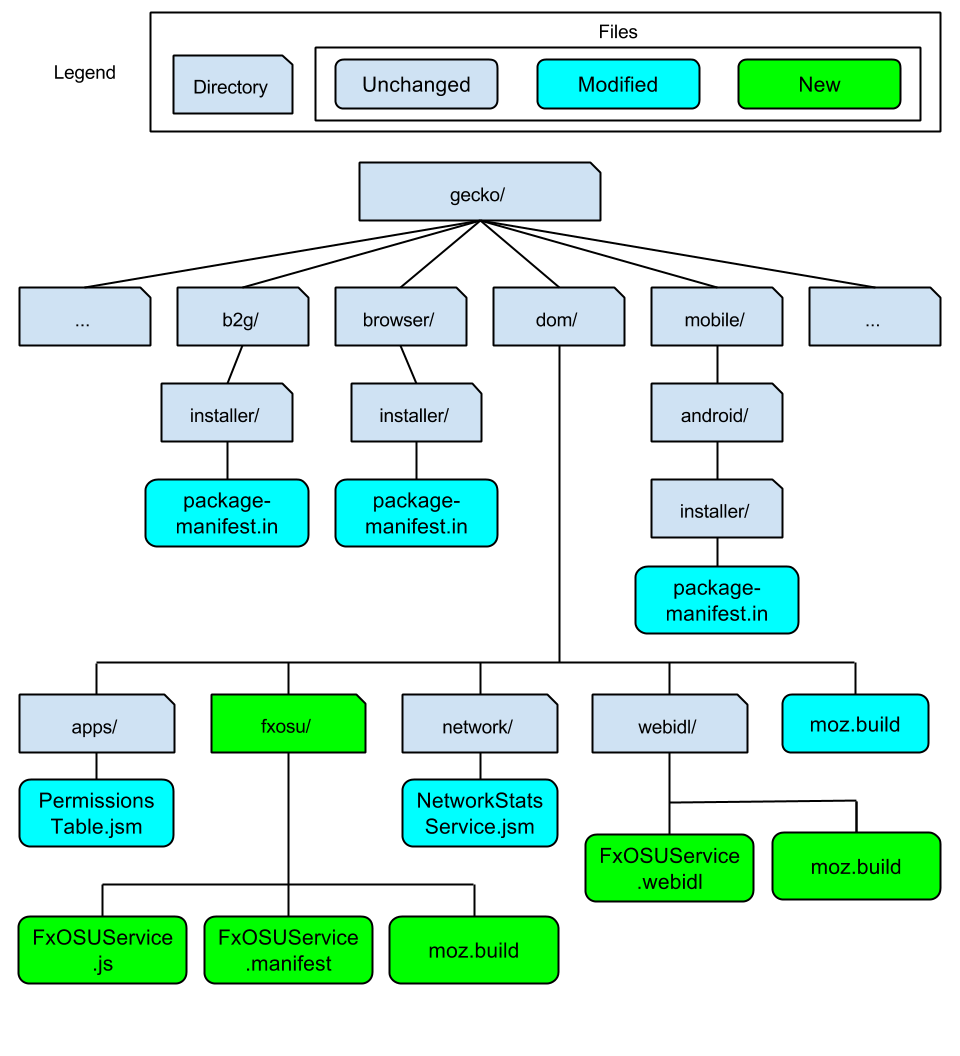
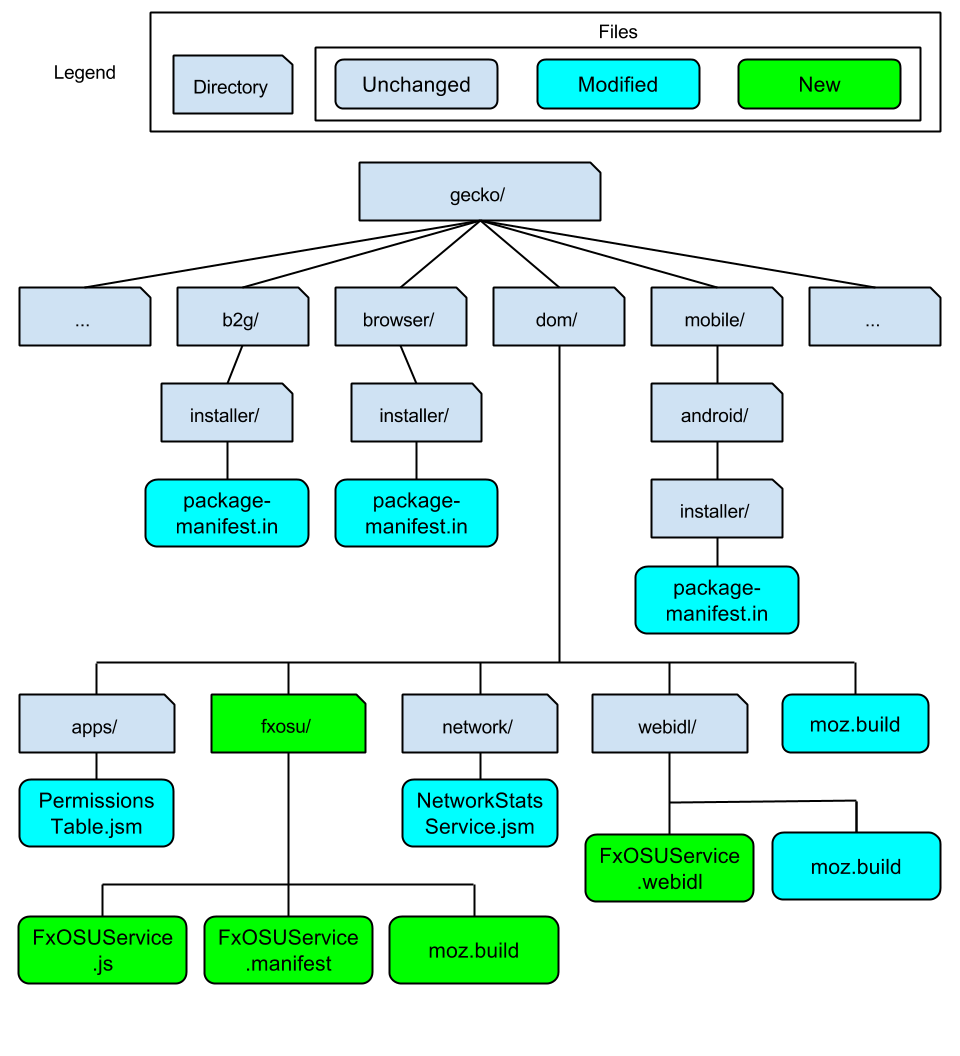
Fleshed out much of the 'Project Documentation'->'Source Code' section, and modified various other things

Changed region(s): [[0.7812, 0.7812, 1.0, 0.875]]

diff --git a/group2_final.tex b/group2_final.tex
@@ -7,6 +7,28 @@
 \usepackage[T1]{fontenc}
 \usepackage{graphicx}
 \graphicspath{ {images/} }
+\usepackage{listings}
+\lstdefinelanguage{diff}{
+  morecomment=[f][\color{blue}]{@@},     % group identifier
+  morecomment=[f][\color{red}]-,         % deleted lines 
+  morecomment=[f][\color{green}]+,       % added lines
+  morecomment=[f][\color{magenta}]{---}, % Diff header lines (must appear after +,-)
+  morecomment=[f][\color{magenta}]{+++},
+}
+\lstdefinelanguage{javascript}{
+  keywords={typeof, new, true, false, catch, function, return, null, catch, switch, var, if, in, while, do, else, case, break},
+  keywordstyle=\color{blue}\bfseries,
+  ndkeywords={class, export, boolean, throw, implements, import, this},
+  ndkeywordstyle=\color{darkgray}\bfseries,
+  identifierstyle=\color{black},
+  sensitive=false,
+  comment=[l]{//},
+  morecomment=[s]{/*}{*/},
+  commentstyle=\color{purple}\ttfamily,
+  stringstyle=\color{red}\ttfamily,
+  morestring=[b]',
+  morestring=[b]"
+}
 \pagestyle{fancy}
 \fancyhf{}
 \fancyhead[LE,RO]{NETWORK RELIABILITY API FOR FIREFOX OS}
@@ -212,6 +234,91 @@ There are almost 4 million lines of code in Firefox, and our project barely scra
 \end{figure}
 \pagebreak
 
+\subsection{Source Code}
+Here is a description of each of the files used in our project.
+
+\subsubsection{b2g/installer/package-manifest.in}
+This file required modification to include references to our new XPCOM component. This is necessary when compiling Firefox OS; B2G (Boot 2 Gecko) contains the core which we continually refer to as Gecko.
+
+\subsubsection{browser/installer/package-manifest.in}
+This file required modification to include references to our new XPCOM component. This is necessary when compiling Firefox Desktop.
+
+\subsubsection{dom/apps/PermissionsTable.jsm}
+This file required modification to list the specific permissions given to the XPCOM component.
+
+\subsubsection{dom/fxosu/FxOSUService.js}
+This file holds the bulk of the work that we've done in this project.
+
+\subsubsection{dom/fxosu/FxOSUService.manifest}
+This file sets the uuid for our XPCOM component, so that Gecko can handle a unique reference to the location of the component. It also sets up a name for the XPCOM component, and registers the component to be run at app startup.
+
+\subsubsection{dom/fxosu/moz.build}
+This file lists references to the files need to compile our XPCOM component, and is used by subsequent moz.build files up the directory hierarchy, when Gecko is being built.
+
+\subsubsection{dom/NetworkStatsService.jsm}
+This file required modification to handle registering network request observers, as well as handling the IPC functionality needed to shuttle messages from the parent process to a child process, and back again if necessary.
+\\\\
+We setup observers for 'http-on-modify-request' and 'http-on-examine-response' events. An 'http-on-modify-request' event is called whenever an http request is made. Among other things, this event allows you to inspect request headers and to even add or modify new and existing headers before the request is sent. An 'http-on-examine-response' event is called whenever a response has been received from the web server. Similarly to an 'http-on-modify-request' event, this event allows you to inspect response headers, and to modify existing response headers as well.
+\\\\
+Once the event observers are setup and registered, we define new cases for the NetworkStatsService.jsm process' observe function to be capable of reacting to our new events. Upon receipt of an 'http-on-modify-request' event, the observe function will grab the request URI and record the current time, storing this data in an object. This object is then broadcast asynchronously, with the name "NetworkStatsService:Request", where our FxOSUService.js child process is listening to grab the message. Upon receipt of an 'http-on-examine-response' event, the observe function will grab the content length in bytes, the time of the response, the content type, the response URI, will check if the response was a cached response by calling the isNoCacheResponse() function on the response object, and finally will check if the request succeeded by checking the requestSucceeded attribute of the response object. Just like with the 'http-on-modify-request' event, all of this data is then stored in an object, and the object is then broadcast asynchronously, with the name "NetworkStatsService:Response", where our FxOSUService.js child process is listening to grab the message.
+\\\\
+Finally, when the 'xpcom-shutdown' event is received, the observe function will remove the observers that we setup for 'http-on-modify-request' and 'http-on-examine-response' events.
+
+\subsubsection{dom/webidl/FxOSUService.webidl}
+This file handles the defining of our exposed API. In it we define the interface that will be made accessible via the navigator object available in a js application running in a web context. We define 3 objects to help with the interface we have chosen to implement; SuccessRateObject, MemoryObject, and LatencyObject. The SuccessRateObject object holds 3 floats; rate, successes, and attempted, which records the success rate from 0 to 1 of network requests, the number of successful network requests, and the total number of attempted network requests all within an arbitrary time period, respectively. The MemoryObject object holds 2 floats; explicit and resident. Explicit shows the total size of explicit memory allocations, both at the operating system level (mmap, VirtualAlloc) and at the heap level (malloc(), calloc(), operator new). And Resident shows the resident size (RSS) of physical memory used. The LatencyObject object holds 23 floats, which we'll list and describe in a bullet point list:
+
+\begin{itemize}
+  \item \textbf{navigation\_type}: THING
+  \item \textbf{navigation\_redirectCount}: THING
+  \item \textbf{prep}: THING
+  \item \textbf{redirect}: THING
+  \item \textbf{unload}: THING
+  \item \textbf{r\_to\_f}: THING
+  \item \textbf{fetch}: THING
+  \item \textbf{dnslookup}: THING
+  \item \textbf{d\_to\_c}: THING
+  \item \textbf{connection}: THING
+  \item \textbf{c\_to\_req}: THING
+  \item \textbf{request}: THING
+  \item \textbf{response}: THING
+  \item \textbf{res\_to\_dom}: THING
+  \item \textbf{domLoading}: THING
+  \item \textbf{domInteractive}: THING
+  \item \textbf{domContentLoaded}: THING
+  \item \textbf{domComplete}: THING
+  \item \textbf{dom\_to\_onload}: THING
+  \item \textbf{loadEvent}: THING
+  \item \textbf{networkLatency}: THING
+  \item \textbf{pageLoadingTime}: THING
+  \item \textbf{totalTimeElapsed}: THING
+\end{itemize}
+
+Finally, the WebIDL sets up 12 API functions that can be called from a web context, attached to navigator:
+\begin{itemize}
+  \item \textbf{boolean batteryLevel()}: THING
+  \item \textbf{boolean batteryCharging()}: THING
+  \item \textbf{DOMRequest recentRxTx()}: THING
+  \item \textbf{float receivedBytes(optional float lastMillisecs)}: THING
+  \item \textbf{SuccessRateObject successRate(optional float lastMillisecs)}: THING
+  \item \textbf{LatencyObject latencyInfo()}: THING
+  \item \textbf{boolean isConnectionStable(optional float lastMillisecs)}: THING
+  \item \textbf{MemoryObject memoryManager();}: THING
+  \item \textbf{float connectionType()}: THING
+  \item \textbf{boolean connectionUp()}: THING
+  \item \textbf{float connectionQuality()}: THING
+  \item \textbf{boolean mozIsNowGood(optional float level)}: THING
+\end{itemize}
+
+\subsubsection{dom/webidl/moz.build}
+This file lists references to the WebIDL files need to compile all API interfaces used in Firefox, and is used by subsequent moz.build files up the directory hierarchy, when Gecko is being built.
+
+\subsubsection{dom/moz.build}
+This file lists references to interfaces and the directory names of all XPCOM components stored in the dom/ directory, and is used by subsequent moz.build files up the directory hierarchy, when Gecko is being built.
+
+\subsubsection{mobile/android/installer/package-manifest.in}
+This file required modification to include references to our new XPCOM component. This is necessary when compiling Firefox for Android.
+\pagebreak
+
 \subsection{Building/Running from Source}
 
 \subsection{API Documentation}
@@ -229,6 +336,13 @@ There were a number of websites that were helpful during the course of researchi
 	\item Boot2Gecko Mailing List (\href{https://groups.google.com/forum/\#!forum/mozilla.dev.b2g}{https://groups.google.com/forum/\#!forum/mozilla.dev.b2g})
 	\item Gaia Mailing List (\href{https://groups.google.com/forum/\#!forum/mozilla.dev.gaia}{https://groups.google.com/forum/\#!forum/mozilla.dev.gaia})
 	\item StackOverflow (\href{http://stackoverflow.com/}{http://stackoverflow.com/})
+\end{enumerate}
+
+And here are a list of webpages, within these websites that we found most useful, organized from most to least helpful:
+\begin{enumerate}
+	\item MDN XPCOM Interface Reference (\href{https://developer.mozilla.org/en-US/docs/Mozilla/Tech/XPCOM/Reference/Interface}{https://developer.mozilla.org/en-US/docs/Mozilla/Tech/XPCOM/Reference/Interface})
+	\item MDN Observer Notifications (\href{https://developer.mozilla.org/en-US/docs/Observer_Notifications}{https://developer.mozilla.org/en-US/docs/Observer\_Notifications})
+	\item MDN XPCOM Reference for nsIMemoryReporterManager (\href{https://developer.mozilla.org/en-US/docs/Mozilla/Tech/XPCOM/Reference/Interface/nsIMemoryReporterManager}{https://developer.mozilla.org/en-US/docs/Mozilla/Tech/XPCOM/Reference/Interface/nsIMemoryReporterManager})
 \end{enumerate}
 
 \noindent Other resources that we found really helpful included:
@@ -291,10 +405,79 @@ If I could do it all over again, I would spend significantly more time researchi
 
 \section{Appendix I}
 % Essential Code Listings. You don't have to include absolutely everything, but if someone wants to understand your project, there should be enough here to learn from. If you worked within a larger project, something like a patch file might be a good way to go.
-Code
+\subsection{Source Code}
+
+\subsubsection{b2g/installer/package-manifest.in}
+\lstinputlisting[language=diff, breaklines=true]{diffs/b2g-installer-package-manifest.diff}
+\pagebreak
+
+\subsubsection{browser/installer/package-manifest.in}
+\lstinputlisting[language=diff, breaklines=true]{diffs/browser-installer-package-manifest.diff}
+\pagebreak
+
+\subsubsection{dom/apps/PermissionsTable.jsm}
+\lstinputlisting[language=diff, breaklines=true]{diffs/dom-apps-PermissionsTable.diff}
+\pagebreak
+
+\subsubsection{dom/fxosu/FxOSUService.js}
+\lstinputlisting[language=javascript, breaklines=true]{source/FxOSUService.js}
+\pagebreak
+
+\subsubsection{dom/fxosu/FxOSUService.manifest}
+\lstinputlisting[breaklines=true]{source/FxOSUService.manifest}
+\pagebreak
+
+\subsubsection{dom/fxosu/moz.build}
+\lstinputlisting[breaklines=true]{source/dom-fxosu-moz.build}
+\pagebreak
+
+\subsubsection{dom/NetworkStatsService.jsm}
+\lstinputlisting[language=diff, breaklines=true]{diffs/dom-network-NetworkStatsService.diff}
+\pagebreak
+
+\subsubsection{dom/webidl/FxOSUService.webidl}
+\lstinputlisting[language=javascript, breaklines=true]{source/FxOSUService.webidl}
+\pagebreak
+
+\subsubsection{dom/webidl/moz.build}
+\lstinputlisting[language=diff, breaklines=true]{diffs/dom-webidl-moz.diff}
+\pagebreak
+
+\subsubsection{dom/moz.build}
+\lstinputlisting[language=diff, breaklines=true]{diffs/dom-moz.diff}
+\pagebreak
+
+\subsubsection{mobile/android/installer/package-manifest.in}
+\lstinputlisting[language=diff, breaklines=true]{diffs/mobile-android-installer-package-manifest.diff}
 \pagebreak
 
 \section{Appendix II}
 % Anything else you want to include. Photos, etc.
+\subsection{Glossary}
+\textbf{Gecko}: the layout engine developed by the Mozilla Project, originally named NGLayout. Gecko reads web content, such as HTML, CSS, XUL, JavaScript, and renders it on the user's screen. In XUL-based applications, Gecko is used to render the application's user interface as well. (\href{https://developer.mozilla.org/en-US/docs/Mozilla/Gecko}{https://developer.mozilla.org/en-US/docs/Mozilla/Gecko})
+\\\\
+\textbf{IPC}: inter-process communication; the activity of sharing data across multiple and commonly specialized processes using communication protocols. (\href{http://en.wikipedia.org/wiki/Inter-process_communication}{http://en.wikipedia.org/wiki/Inter-process\_communication})
+\\\\
+\textbf{JSM}: a JavaScript Code module. It lets multiple privileged JavaScript scopes share code. For example, a module could be used by Firefox itself as well as by extensions, in order to avoid code duplication. (\href{https://developer.mozilla.org/en-US/docs/Mozilla/JavaScript_code_modules}{https://developer.mozilla.org/en-US/docs/Mozilla/JavaScript\_code\_modules})
+\\\\
+\textbf{MDN}: Mozilla Developer Network (\href{https://developer.mozilla.org/en-US/}{https://developer.mozilla.org/en-US/})
+\\\\
+\textbf{Necko}: a network library that provides a platform-independent API for several layers of networking, ranging from transport to presentation layers. This API is used in many Mozilla-based client applications (including Firefox) and can be used for writing other networking clients.(\href{https://developer.mozilla.org/en-US/docs/Necko}{https://developer.mozilla.org/en-US/docs/Necko})
+\\\\
+\textbf{URI}: a uniform resource identifier is a string of characters used to identify a name of a resource. (\href{http://en.wikipedia.org/wiki/Uniform_resource_identifier}{http://en.wikipedia.org/wiki/Uniform\_resource\_identifier})
+\\\\
+\textbf{WebIDL}: a format for describing interfaces that are intended to be implemented in web browsers. (\href{http://en.wikipedia.org/wiki/Web_IDL}{http://en.wikipedia.org/wiki/Web\_IDL})
+\\\\
+\textbf{XPCOM}: a cross platform component object model, similar to Microsoft COM. It has multiple language bindings, allowing XPCOM components to be used and implemented in JavaScript, Java, and Python in addition to C++. Interfaces in XPCOM are defined in a dialect of IDL called XPIDL. (\href{https://developer.mozilla.org/en-US/docs/Mozilla/Tech/XPCOM}{https://developer.mozilla.org/en-US/docs/Mozilla/Tech/XPCOM})
+\\\\
+\textbf{}: (\href{}{})
+\\\\
+\textbf{}: (\href{}{})
+\\\\
+\textbf{}: (\href{}{})
+\\\\
+\textbf{}: (\href{}{})
+\\\\
+\textbf{}: (\href{}{})
 
 \end{document}
